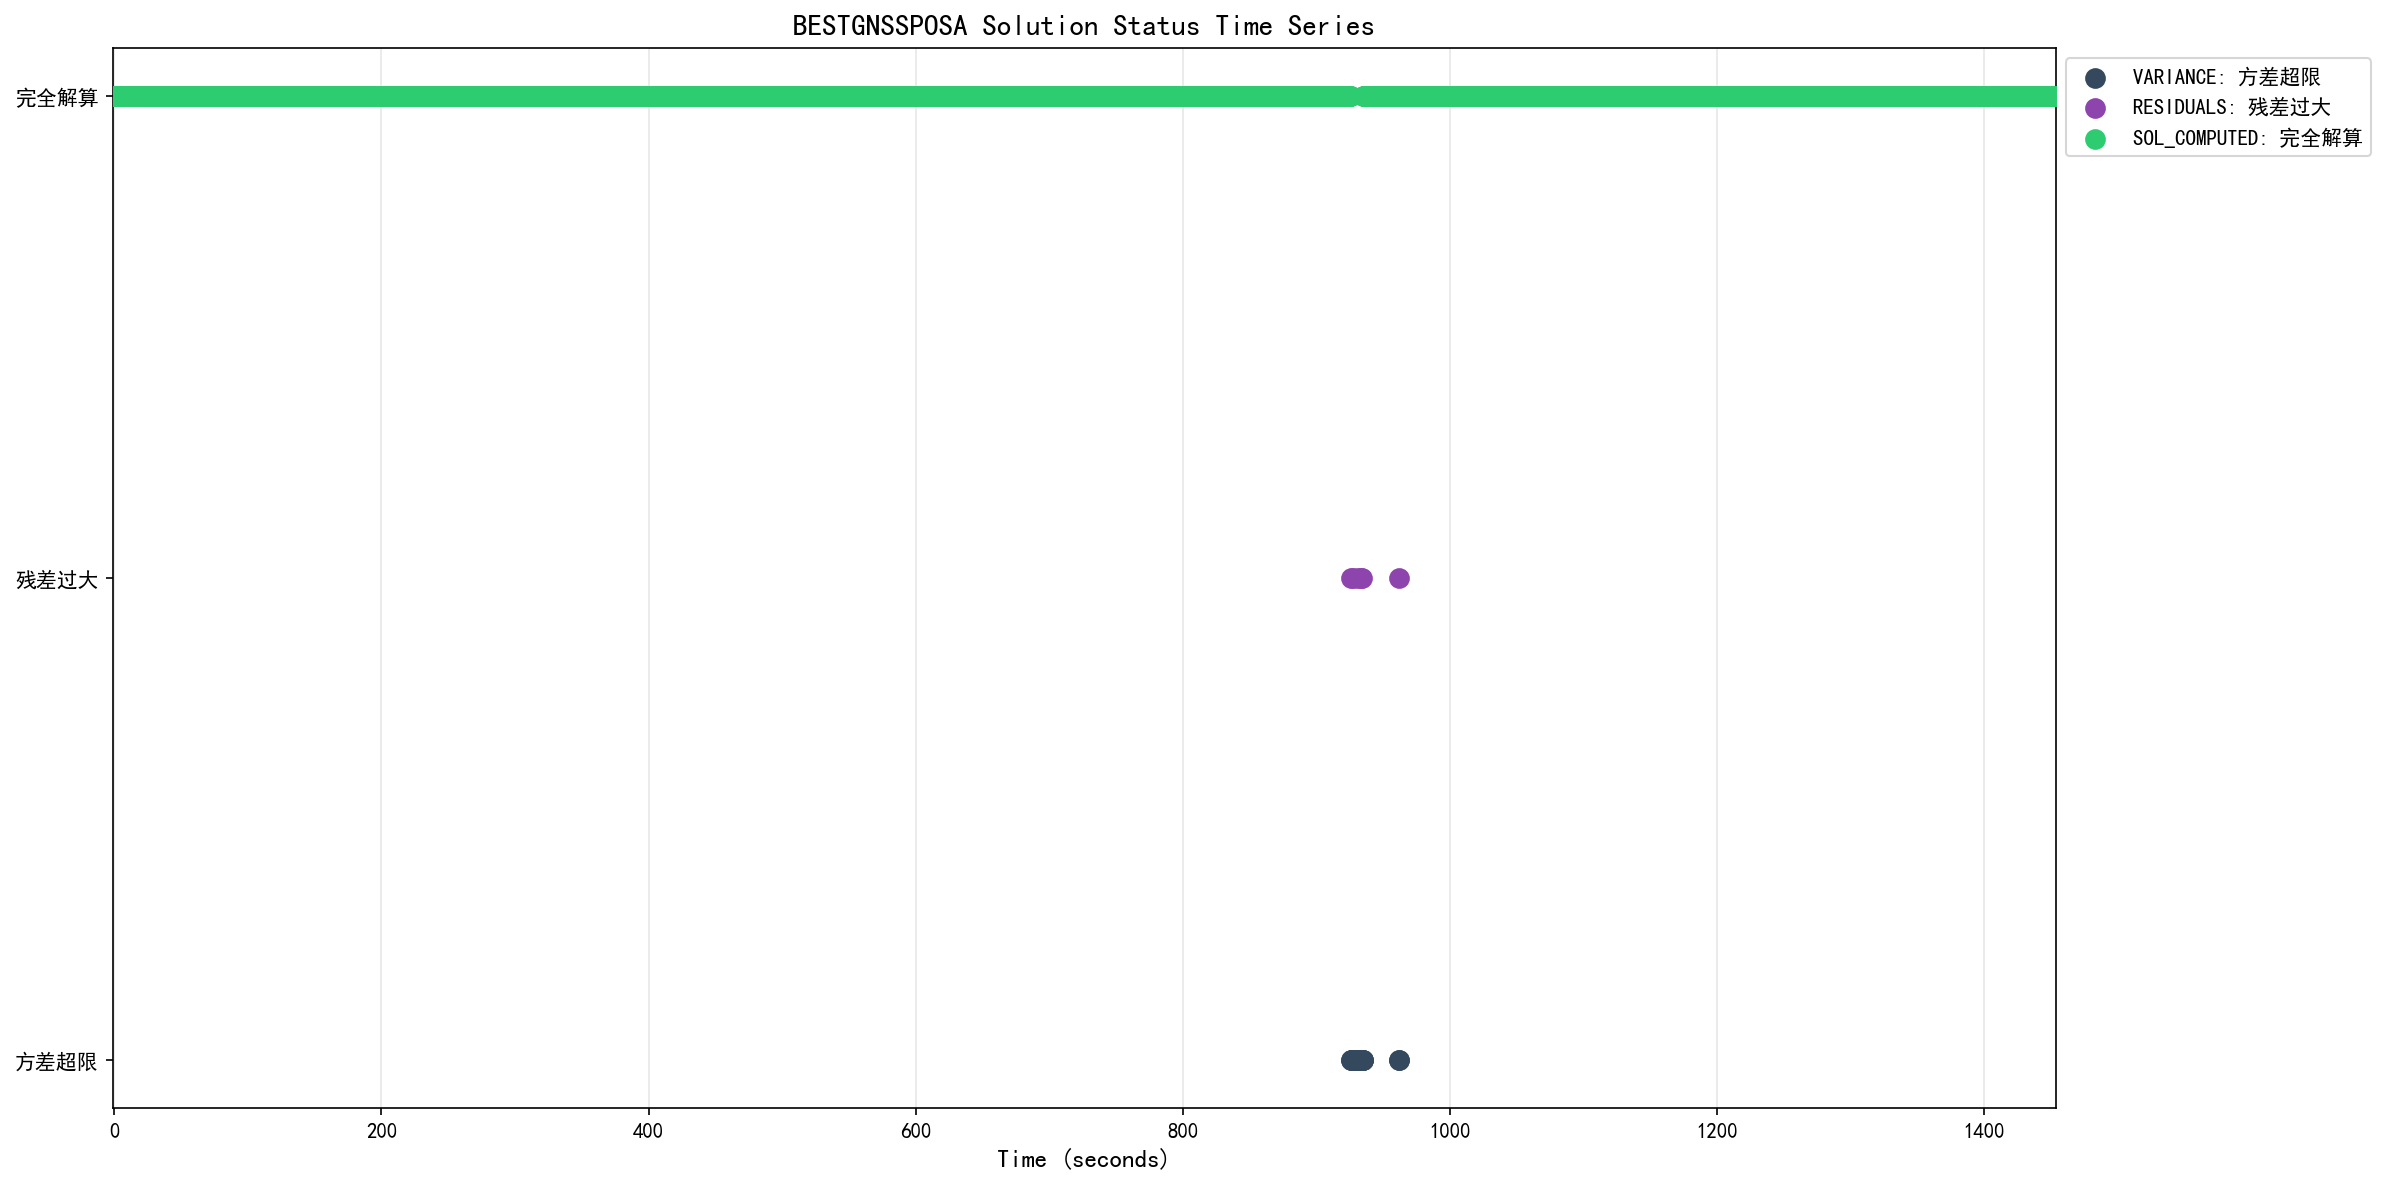
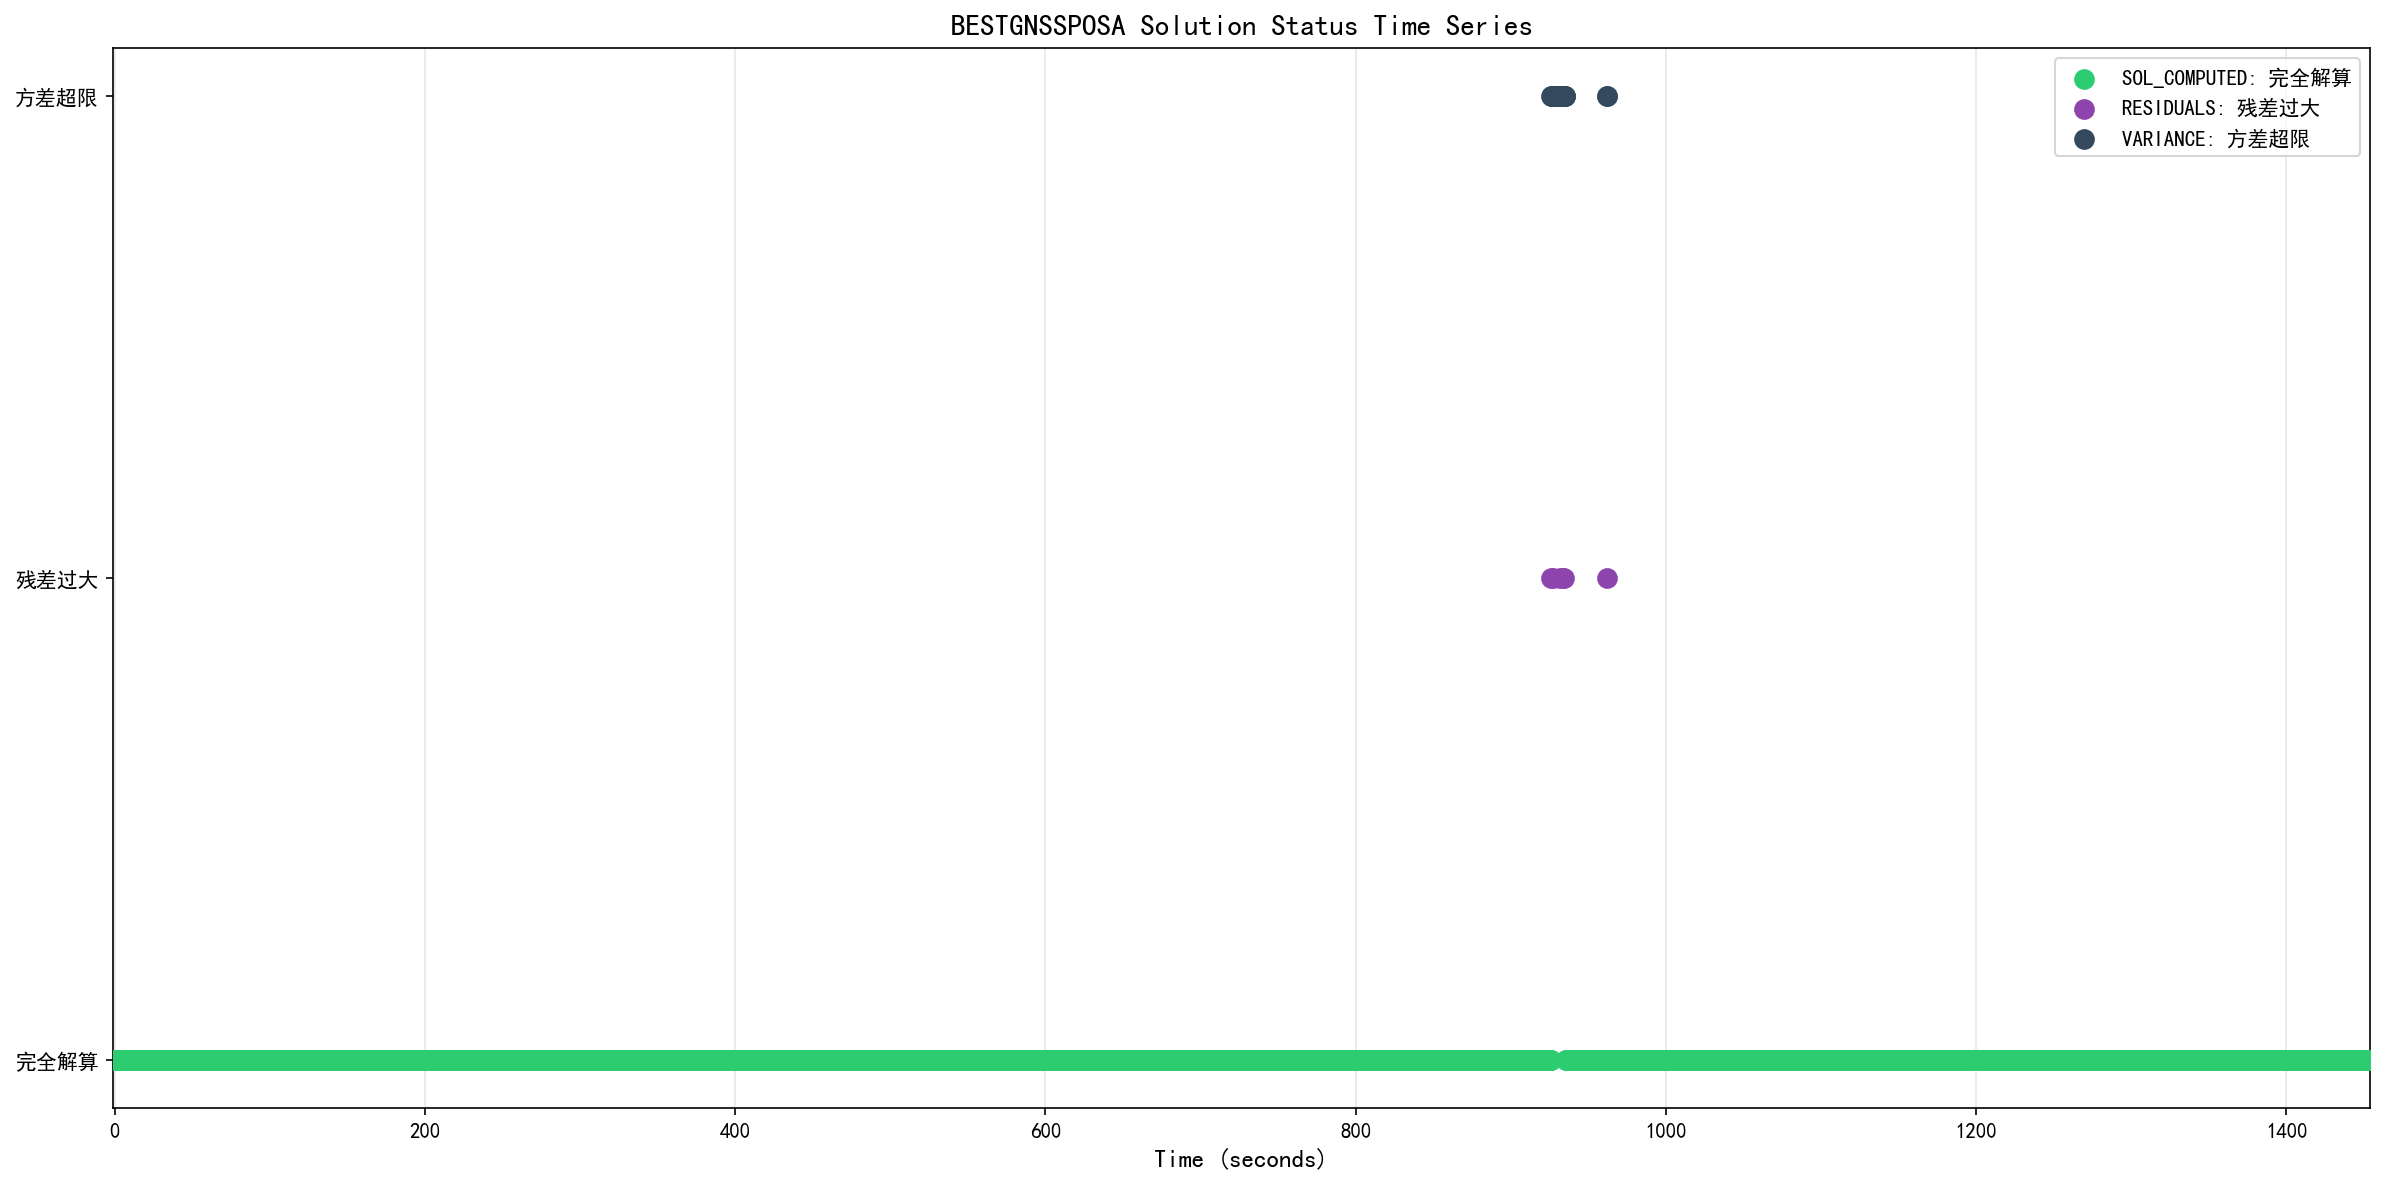
docs(beiyun): 注释说明 NONE(无解)点的线性外推本质
- NONE 记录坐标常为0, 但北云固件在失锁区间会输出线性/递推外推的非0坐标
- 实测(下午数据): 80 个 NONE 点连续 8s, 相邻步长稳定 0.15~0.2m, 平滑渐变
- valid_coord 仅按坐标是否为0判断, 外推的 NONE 点被保留并连成段, 属有意保留
- 同步更新重跑后的报告文件(坐标基准说明)

diff --git a/by_data/0916星扬下午/report.html b/by_data/0916星扬下午/report.html
@@ -117,7 +117,7 @@
     <div class="container">
         <h1>GPS/RTK Kinematic定位分析报告【北云 BEIYUN M21 · GNSS/INS组合惯导】</h1>
         <p><strong>分析输入(COM3/ASCII):</strong> 0916星扬下午.dat |
-           <strong>生成时间:</strong> 2026-09-17 19:29:47 |
+           <strong>生成时间:</strong> 2026-09-17 19:48:21 |
            <strong>分析工具:</strong> 北云 BEIYUN M21 Kinematic Analyzer</p>
 
         <!-- 数据概览 -->

diff --git a/huace_data/0916星扬下午/report.html b/huace_data/0916星扬下午/report.html
@@ -117,7 +117,7 @@
     <div class="container">
         <h1>GPS/RTK Kinematic定位分析报告【华测 HUACE · 纯GNSS】</h1>
         <p><strong>分析输入(COM1/ASCII):</strong> 0916星扬下午.log |
-           <strong>生成时间:</strong> 2026-09-17 19:30:20 |
+           <strong>生成时间:</strong> 2026-09-17 19:48:55 |
            <strong>分析工具:</strong> 华测 HUACE Kinematic Analyzer</p>
 
         <!-- 数据概览 -->

diff --git a/gps_kinematic_analyzer_beiyun.py b/gps_kinematic_analyzer_beiyun.py
@@ -732,7 +732,8 @@ class GPSKinematicAnalyzer:
                 lon = float(parts[3])
                 height = float(parts[4])
 
-                # 无解(NONE)记录坐标为0, 保留供解类型/状态统计, 绘图时再过滤
+                # 无解(NONE)记录坐标常为0, 但北云固件也可能是线性外推的非0坐标;
+                # 故仅按"坐标是否为0"标记有效, 外推的 NONE 点会被保留(见 _enu_coords 注释)
                 valid_coord = not (lat == 0 or lon == 0)
 
                 vel_n = float(parts[6]) if len(parts) > 6 and parts[6] else 0
@@ -1357,6 +1358,12 @@ class GPSKinematicAnalyzer:
         """经纬度 -> 相对首点的 ENU 平面坐标 (equirectangular 短距离近似, m)。
 
         只取 valid_coord 点, 返回 (east_list, north_list, 过滤后的data)。
+
+        说明(数据层面事实, 非猜测): pos_type=NONE(无解)的记录, 北云固件仍可能
+        输出非0的经纬度——这是 INS 的线性/递推外推结果(坐标随时间平滑渐变)。
+        valid_coord 仅按"坐标是否恰好为0"判断, 因此这些 NONE 外推点会被保留
+        下来并参与绘图; 它们彼此连续, 在轨迹图上自然连成一段。这是有意的:
+        保留外推轨迹能完整反映设备在失锁区间的递推行为。
         """
         pts = [d for d in data if d.get('valid_coord', True)]
         if not pts:
@@ -1385,6 +1392,8 @@ class GPSKinematicAnalyzer:
 
         plt.figure(figsize=(9, 8))
         # 按解类型分组绘制(同类型同色, 便于图例)
+        # 注意: NONE(无解)灰点并非错误——北云固件在 NONE 时仍输出线性外推坐标,
+        # 数据层面存在这些连续外推点, 故可逐渐把点联系起来成段, 此处予以保留。
         from collections import OrderedDict
         groups = OrderedDict()
         for e, n, d in zip(east, north, pts):

diff --git a/by_data/0916星扬下午/report.md b/by_data/0916星扬下午/report.md
@@ -3,7 +3,7 @@
 
 ## 基本信息
 - **分析输入(COM3/ASCII)**: 0916星扬下午.dat
-- **生成时间**: 2026-09-17 19:29:47
+- **生成时间**: 2026-09-17 19:48:21
 - **分析工具**: 北云 BEIYUN M21 Kinematic Analyzer
 
 ## 1. 数据概览

diff --git a/huace_data/0916星扬下午/report.md b/huace_data/0916星扬下午/report.md
@@ -3,7 +3,7 @@
 
 ## 基本信息
 - **分析输入(COM1/ASCII)**: 0916星扬下午.log
-- **生成时间**: 2026-09-17 19:30:20
+- **生成时间**: 2026-09-17 19:48:55
 - **分析工具**: 华测 HUACE Kinematic Analyzer
 
 ## 1. 数据概览
